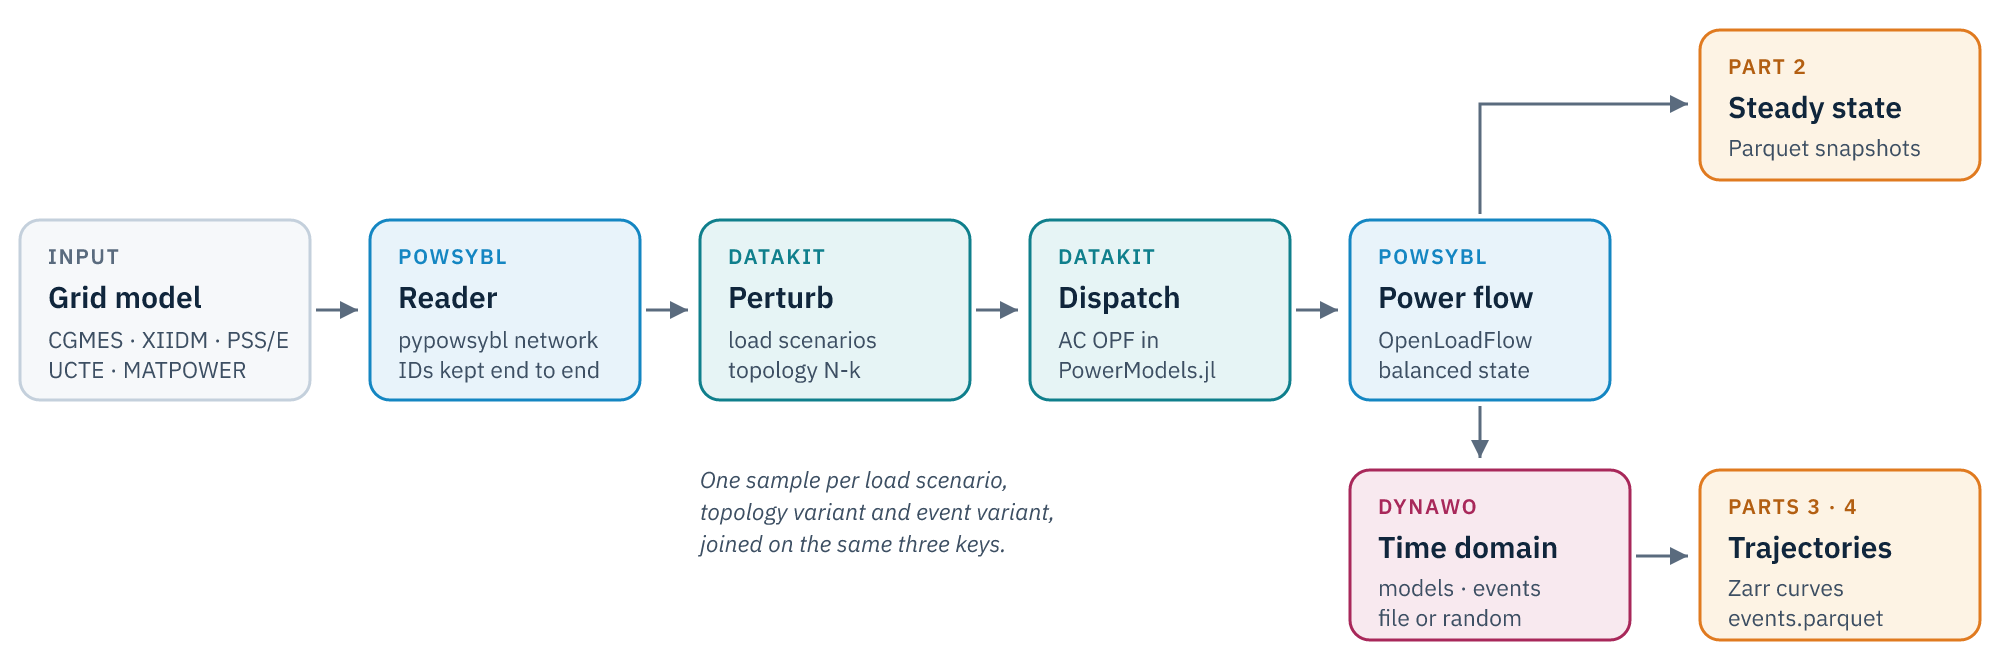
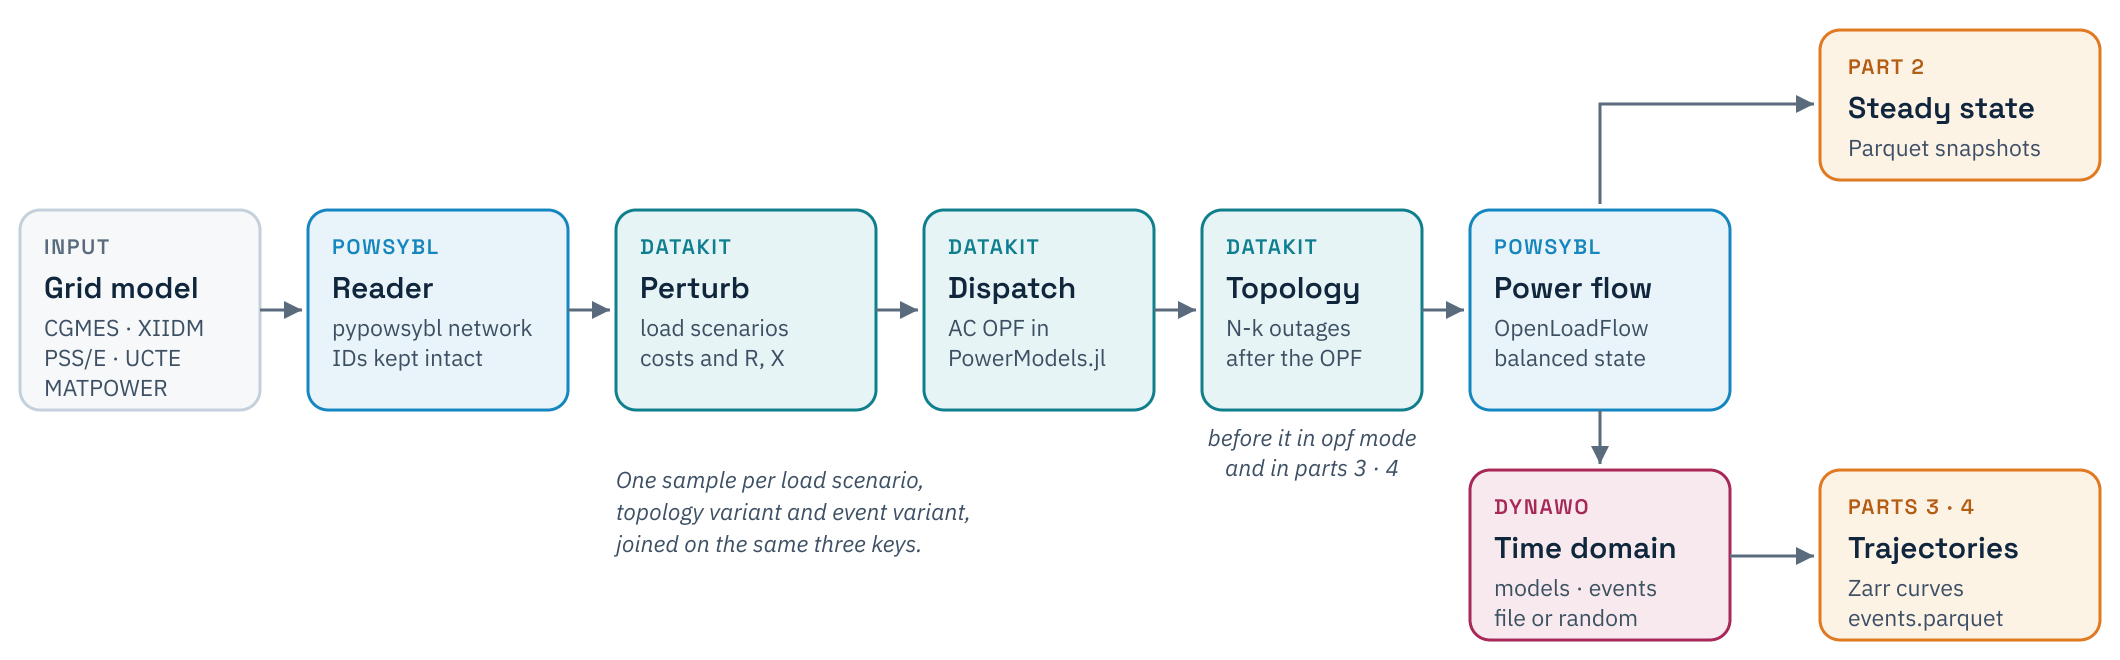
Publish the reordered pipeline diagram

diff --git a/parts/01-powsybl-dynawo.html b/parts/01-powsybl-dynawo.html
@@ -294,7 +294,7 @@ pre > code.sourceCode > span > a:first-child::before { text-decoration: underlin
 </ol>
 <div class="quarto-figure quarto-figure-center">
 <figure class="figure">
-<p><img src="../assets/pipeline.png" class="img-fluid figure-img" alt="Pipeline from grid model through PowSyBl, datakit perturbation, OPF, power flow, to a steady-state dataset and through Dynawo to trajectories." width="800"></p>
+<p><img src="../assets/pipeline.png" class="img-fluid figure-img" alt="Pipeline from grid model through PowSyBl, datakit perturbation, OPF, topology outages and power flow, to a steady-state dataset and through Dynawo to trajectories." width="800"></p>
 <figcaption>The datakit pipeline. PowSyBl reads the grid and solves the power flow, Dynawo simulates the time domain.</figcaption>
 </figure>
 </div>
@@ -315,7 +315,7 @@ pre > code.sourceCode > span > a:first-child::before { text-decoration: underlin
 <section id="powsybl-in-a-few-lines" class="level2">
 <h2 class="anchored" data-anchor-id="powsybl-in-a-few-lines">PowSyBl in a few lines</h2>
 <p>The IEEE 14-bus case used throughout the dynamic parts ships as an XIIDM file, the native PowSyBl format.</p>
-<div id="8be6d46a" class="cell" data-execution_count="2">
+<div id="b4abe119" class="cell" data-execution_count="2">
 <div class="code-copy-outer-scaffold"><div class="sourceCode cell-code" id="cb1"><pre class="sourceCode python code-with-copy"><code class="sourceCode python"><span id="cb1-1"><a href="#cb1-1" aria-hidden="true" tabindex="-1"></a><span class="im">import</span> matplotlib.pyplot <span class="im">as</span> plt</span>
 <span id="cb1-2"><a href="#cb1-2" aria-hidden="true" tabindex="-1"></a><span class="im">import</span> pandas <span class="im">as</span> pd</span>
 <span id="cb1-3"><a href="#cb1-3" aria-hidden="true" tabindex="-1"></a><span class="im">import</span> pypowsybl <span class="im">as</span> pp</span>
@@ -395,7 +395,7 @@ pre > code.sourceCode > span > a:first-child::before { text-decoration: underlin
 </div>
 </div>
 <p>Every element type is a pandas DataFrame, and every attribute can be updated in place. A load flow with OpenLoadFlow fills in the voltages and the flows.</p>
-<div id="d4b41dcb" class="cell" data-execution_count="3">
+<div id="11ce9e78" class="cell" data-execution_count="3">
 <div class="code-copy-outer-scaffold"><div class="sourceCode cell-code" id="cb2"><pre class="sourceCode python code-with-copy"><code class="sourceCode python"><span id="cb2-1"><a href="#cb2-1" aria-hidden="true" tabindex="-1"></a>result <span class="op">=</span> pp.loadflow.run_ac(network)</span>
 <span id="cb2-2"><a href="#cb2-2" aria-hidden="true" tabindex="-1"></a><span class="bu">print</span>(result[<span class="dv">0</span>].status_text, <span class="st">"in"</span>, result[<span class="dv">0</span>].iteration_count, <span class="st">"iterations"</span>)</span>
 <span id="cb2-3"><a href="#cb2-3" aria-hidden="true" tabindex="-1"></a>network.get_buses()[[<span class="st">"v_mag"</span>, <span class="st">"v_angle"</span>]].<span class="bu">round</span>(<span class="dv">2</span>).head()</span></code></pre></div><button title="Copy to Clipboard" class="code-copy-button"><i class="bi"></i></button></div>
@@ -452,7 +452,7 @@ pre > code.sourceCode > span > a:first-child::before { text-decoration: underlin
 </div>
 </div>
 <p>PowSyBl models equipment in detail, and OpenLoadFlow can control it. On a copy of the grid, the ratio tap changer of the transformer between buses 4 and 9 starts at its lowest tap and regulates the voltage of bus 9 to 14.3 kV.</p>
-<div id="443f1c2c" class="cell" data-execution_count="4">
+<div id="018fab89" class="cell" data-execution_count="4">
 <div class="code-copy-outer-scaffold"><div class="sourceCode cell-code" id="cb4"><pre class="sourceCode python code-with-copy"><code class="sourceCode python"><span id="cb4-1"><a href="#cb4-1" aria-hidden="true" tabindex="-1"></a>regulated <span class="op">=</span> pp.network.load(<span class="st">"../data/ieee14/IEEE14.iidm"</span>)</span>
 <span id="cb4-2"><a href="#cb4-2" aria-hidden="true" tabindex="-1"></a>transformer <span class="op">=</span> <span class="st">"_BUS____4-BUS____9-1_PT"</span></span>
 <span id="cb4-3"><a href="#cb4-3" aria-hidden="true" tabindex="-1"></a>regulated.update_ratio_tap_changers(</span>
@@ -509,14 +509,14 @@ tap 1 solved at 10</code></pre>
 </div>
 <p>The load flow leaves <code>tap</code> at its set value and reports the position it chose in <code>solved_tap_position</code>. The base case <code>network</code> is untouched, so the rest of this part runs on the original grid.</p>
 <p>PowSyBl also draws the grid. The network area diagram shows each voltage level with its flows.</p>
-<div id="9b735d97" class="cell" data-execution_count="5">
+<div id="92353ca0" class="cell" data-execution_count="5">
 <div class="code-copy-outer-scaffold"><div class="sourceCode cell-code" id="cb6"><pre class="sourceCode python code-with-copy"><code class="sourceCode python"><span id="cb6-1"><a href="#cb6-1" aria-hidden="true" tabindex="-1"></a>network.get_network_area_diagram()</span></code></pre></div><button title="Copy to Clipboard" class="code-copy-button"><i class="bi"></i></button></div>
 </div>
-<div id="fb2997b1" class="cell" data-execution_count="6">
+<div id="2614405b" class="cell" data-execution_count="6">
 <div class="cell-output cell-output-display" data-execution_count="5">
 
 <div style="height:560px;border:1px solid #e3e8ee;border-radius:6px;overflow:hidden">
-<svg id="zoom-016dcf0e" width="100%" height="100%" style="display:block;width:100%;height:100%" viewbox="-922.61 -682.64 2039.63 1724.02" xmlns="http://www.w3.org/2000/svg">
+<svg id="zoom-489c1a27" width="100%" height="100%" style="display:block;width:100%;height:100%" viewbox="-922.61 -682.64 2039.63 1724.02" xmlns="http://www.w3.org/2000/svg">
     <style>.nad-branch-edges .nad-edge-path, .nad-3wt-edges .nad-edge-path {stroke: var(--nad-vl-color, lightgrey); stroke-width: 5; fill: none}
 .nad-branch-edges .nad-winding, .nad-3wt-nodes .nad-winding {stroke: var(--nad-vl-color, lightgrey); stroke-width: 5; fill: none}
 .nad-text-edges {stroke: black; stroke-width: 3; stroke-dasharray: 6,7; fill: none}
@@ -1075,7 +1075,7 @@ tap 1 solved at 10</code></pre>
   var root = document.currentScript ? document.currentScript.parentNode : document;
   var tries = 0;
   var start = function () {
-    var svg = root.querySelector("#zoom-016dcf0e");
+    var svg = root.querySelector("#zoom-489c1a27");
     var size = svg && svg.getBoundingClientRect();
     if (!size || !size.width || !size.height) {
       if (tries++ < 200) setTimeout(start, 50);
@@ -1098,7 +1098,7 @@ tap 1 solved at 10</code></pre>
 <section id="exchange-formats" class="level2">
 <h2 class="anchored" data-anchor-id="exchange-formats">Exchange formats</h2>
 <p>European operators exchange grid models as <strong>CGMES</strong>, the Common Grid Model Exchange Standard. PowSyBl writes and reads it, as well as its own <strong>XIIDM</strong> format. A round trip shows what each one keeps. It runs on the PEGASE 89-bus case of PGLib, the grid of Part 2, which GridFM-Datakit’s PowSyBl reader turns from a MATPOWER file into a pypowsybl network.</p>
-<div id="ab841775" class="cell" data-execution_count="7">
+<div id="18d73158" class="cell" data-execution_count="7">
 <div class="code-copy-outer-scaffold"><div class="sourceCode cell-code" id="cb7"><pre class="sourceCode python code-with-copy"><code class="sourceCode python"><span id="cb7-1"><a href="#cb7-1" aria-hidden="true" tabindex="-1"></a><span class="im">from</span> pathlib <span class="im">import</span> Path</span>
 <span id="cb7-2"><a href="#cb7-2" aria-hidden="true" tabindex="-1"></a></span>
 <span id="cb7-3"><a href="#cb7-3" aria-hidden="true" tabindex="-1"></a><span class="im">from</span> gridfm_datakit.network <span class="im">import</span> get_pglib_source_path</span>
@@ -1186,7 +1186,7 @@ tap 1 solved at 10</code></pre>
 <section id="a-first-dynawo-simulation" class="level2">
 <h2 class="anchored" data-anchor-id="a-first-dynawo-simulation">A first Dynawo simulation</h2>
 <p><code>pypowsybl.dynamic</code> drives Dynawo with three mappings. <strong>Models</strong> attach a dynamic model to a static element, <strong>events</strong> say what happens and when, and <strong>output variables</strong> say what to record. The physical parameters of each model come from a <code>.par</code> file, referenced by a parameter set ID.</p>
-<div id="688b76ec" class="cell" data-execution_count="8">
+<div id="68c77aec" class="cell" data-execution_count="8">
 <div class="code-copy-outer-scaffold"><div class="sourceCode cell-code" id="cb8"><pre class="sourceCode python code-with-copy"><code class="sourceCode python"><span id="cb8-1"><a href="#cb8-1" aria-hidden="true" tabindex="-1"></a><span class="im">import</span> pypowsybl.dynamic <span class="im">as</span> dyn</span>
 <span id="cb8-2"><a href="#cb8-2" aria-hidden="true" tabindex="-1"></a></span>
 <span id="cb8-3"><a href="#cb8-3" aria-hidden="true" tabindex="-1"></a>models_table <span class="op">=</span> pd.read_csv(<span class="st">"../data/ieee14/static_element_dynamic_models.csv"</span>)</span>
@@ -1249,7 +1249,7 @@ tap 1 solved at 10</code></pre>
 </div>
 </div>
 <p>The five machines get a synchronous generator model. Loads and other elements keep Dynawo’s default model.</p>
-<div id="1c791ebd" class="cell" data-execution_count="9">
+<div id="dcad80c2" class="cell" data-execution_count="9">
 <div class="code-copy-outer-scaffold"><div class="sourceCode cell-code" id="cb9"><pre class="sourceCode python code-with-copy"><code class="sourceCode python"><span id="cb9-1"><a href="#cb9-1" aria-hidden="true" tabindex="-1"></a>models <span class="op">=</span> dyn.ModelMapping()</span>
 <span id="cb9-2"><a href="#cb9-2" aria-hidden="true" tabindex="-1"></a><span class="cf">for</span> row <span class="kw">in</span> machines.itertuples():</span>
 <span id="cb9-3"><a href="#cb9-3" aria-hidden="true" tabindex="-1"></a>    models.add_synchronous_generator(</span>
@@ -1259,7 +1259,7 @@ tap 1 solved at 10</code></pre>
 <span id="cb9-7"><a href="#cb9-7" aria-hidden="true" tabindex="-1"></a>    )</span></code></pre></div><button title="Copy to Clipboard" class="code-copy-button"><i class="bi"></i></button></div>
 </div>
 <p>The disturbance is a 100 ms solid fault on bus 4, cleared without tripping anything.</p>
-<div id="6242ce97" class="cell" data-execution_count="10">
+<div id="2dcc4fb2" class="cell" data-execution_count="10">
 <div class="code-copy-outer-scaffold"><div class="sourceCode cell-code" id="cb10"><pre class="sourceCode python code-with-copy"><code class="sourceCode python"><span id="cb10-1"><a href="#cb10-1" aria-hidden="true" tabindex="-1"></a>events <span class="op">=</span> dyn.EventMapping()</span>
 <span id="cb10-2"><a href="#cb10-2" aria-hidden="true" tabindex="-1"></a>events.add_node_fault(</span>
 <span id="cb10-3"><a href="#cb10-3" aria-hidden="true" tabindex="-1"></a>    static_id<span class="op">=</span><span class="st">"_BUS____4_TN"</span>, start_time<span class="op">=</span><span class="fl">1.0</span>, fault_time<span class="op">=</span><span class="fl">0.1</span>, r_pu<span class="op">=</span><span class="fl">0.0</span>, x_pu<span class="op">=</span><span class="fl">0.01</span></span>
@@ -1273,7 +1273,7 @@ tap 1 solved at 10</code></pre>
 <span id="cb10-11"><a href="#cb10-11" aria-hidden="true" tabindex="-1"></a>    )</span></code></pre></div><button title="Copy to Clipboard" class="code-copy-button"><i class="bi"></i></button></div>
 </div>
 <p>The solver settings live in the same <code>.par</code> file. <code>IDAOrder2</code> is a variable-step solver, fine enough to follow a fault.</p>
-<div id="5159e414" class="cell" data-execution_count="11">
+<div id="6efdfde3" class="cell" data-execution_count="11">
 <div class="code-copy-outer-scaffold"><div class="sourceCode cell-code" id="cb11"><pre class="sourceCode python code-with-copy"><code class="sourceCode python"><span id="cb11-1"><a href="#cb11-1" aria-hidden="true" tabindex="-1"></a>par <span class="op">=</span> <span class="st">"../data/ieee14/IEEE14.par"</span></span>
 <span id="cb11-2"><a href="#cb11-2" aria-hidden="true" tabindex="-1"></a>parameters <span class="op">=</span> dyn.Parameters(</span>
 <span id="cb11-3"><a href="#cb11-3" aria-hidden="true" tabindex="-1"></a>    start_time<span class="op">=</span><span class="fl">0.0</span>,</span>
@@ -1296,7 +1296,7 @@ tap 1 solved at 10</code></pre>
 </div>
 </div>
 <p>The curves come back as one DataFrame indexed by time.</p>
-<div id="36e00ac3" class="cell" data-execution_count="12">
+<div id="fcce4a99" class="cell" data-execution_count="12">
 <div class="code-copy-outer-scaffold"><div class="sourceCode cell-code" id="cb13"><pre class="sourceCode python code-with-copy"><code class="sourceCode python"><span id="cb13-1"><a href="#cb13-1" aria-hidden="true" tabindex="-1"></a>curves <span class="op">=</span> result.curves()</span>
 <span id="cb13-2"><a href="#cb13-2" aria-hidden="true" tabindex="-1"></a>curves.index <span class="op">=</span> (curves.index <span class="op">-</span> curves.index[<span class="dv">0</span>]).total_seconds()</span>
 <span id="cb13-3"><a href="#cb13-3" aria-hidden="true" tabindex="-1"></a></span>
@@ -1350,7 +1350,7 @@ tap 1 solved at 10</code></pre>
 </div>
 <div id="callout-3" class="callout-3-contents callout-collapse collapse">
 <div class="callout-body-container callout-body">
-<div id="d9a23832" class="cell" data-tags="[&quot;solution&quot;]" data-execution_count="13">
+<div id="45a06e7b" class="cell" data-tags="[&quot;solution&quot;]" data-execution_count="13">
 <div class="code-copy-outer-scaffold"><div class="sourceCode cell-code" id="cb14"><pre class="sourceCode python code-with-copy"><code class="sourceCode python"><span id="cb14-1"><a href="#cb14-1" aria-hidden="true" tabindex="-1"></a>network <span class="op">=</span> pp.network.load(<span class="st">"../data/ieee14/IEEE14.iidm"</span>)</span>
 <span id="cb14-2"><a href="#cb14-2" aria-hidden="true" tabindex="-1"></a>pp.loadflow.run_ac(network)</span>
 <span id="cb14-3"><a href="#cb14-3" aria-hidden="true" tabindex="-1"></a></span>
